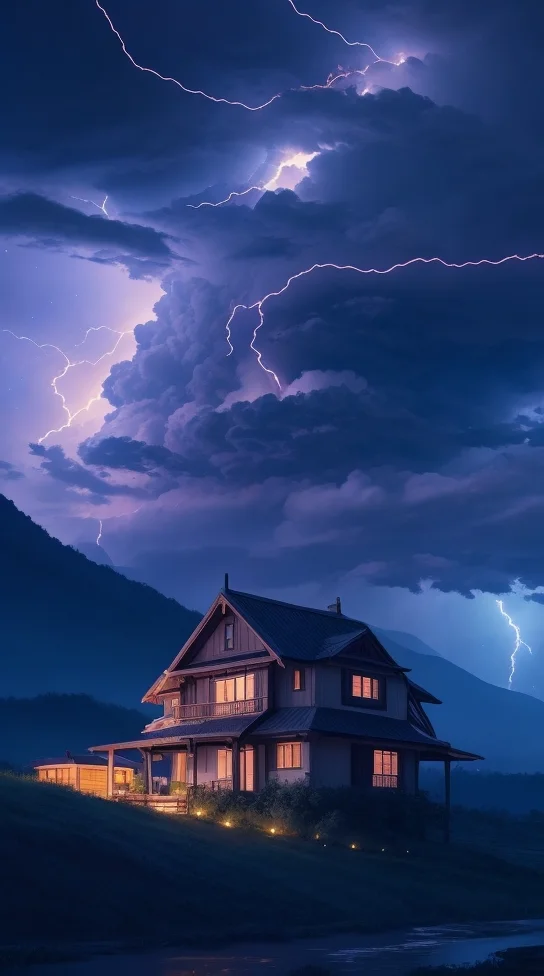
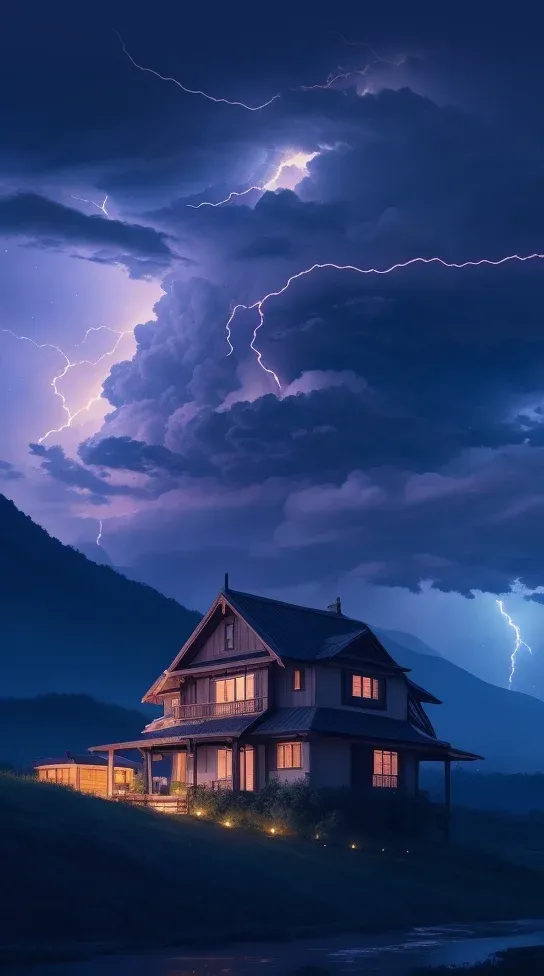
Edited Mobile images top color to match status bar

Changed region(s): [[0.5312, 0.0, 0.9062, 0.123], [0.4688, 0.0922, 0.5, 0.123], [0.2188, 0.0307, 0.25, 0.0615]]

diff --git a/src/components/React/CoverImage.tsx b/src/components/React/CoverImage.tsx
@@ -38,25 +38,25 @@ const CoverImage = ({ background }: Props) => {
     }
 
     const M_Colors: ColorType = {
-        "01d": "#035cf4",
-        "01n": "#021549",
-        "02d": "#0146e7",
-        "02n": "#051438",
-        "03d": "#054faf",
-        "03n": "#0f1245",
-        "04d": "#0b3886",
+        "01d": "#0253f0",
+        "01n": "#031649",
+        "02d": "#0146e9",
+        "02n": "#041538",
+        "03d": "#0650b0",
+        "03n": "#0c0e3d",
+        "04d": "#103785",
         "04n": "#020b44",
-        "09d": "#314766",
-        "09n": "#021732",
-        "10d": "#232d37",
-        "10n": "#243749",
+        "09d": "#2a3e5e",
+        "09n": "#021933",
+        "10d": "#aaaeb4",
+        "10n": "#051728",
         "11d": "#1c2b5f",
-        "11n": "#162d61",
-        "13d": "#8fa6c3",
-        "13n": "#10325b",
-        "50d": "#3593e1",
-        "50n": "#0e2e41",
-        "default": "#002bc5",
+        "11n": "#112552",
+        "13d": "#87a6c8",
+        "13n": "#11335c",
+        "50d": "#3492e0",
+        "50n": "#0d2e41",
+        "default": "#60a5fa",
     }
 
     useEffect(() => {
